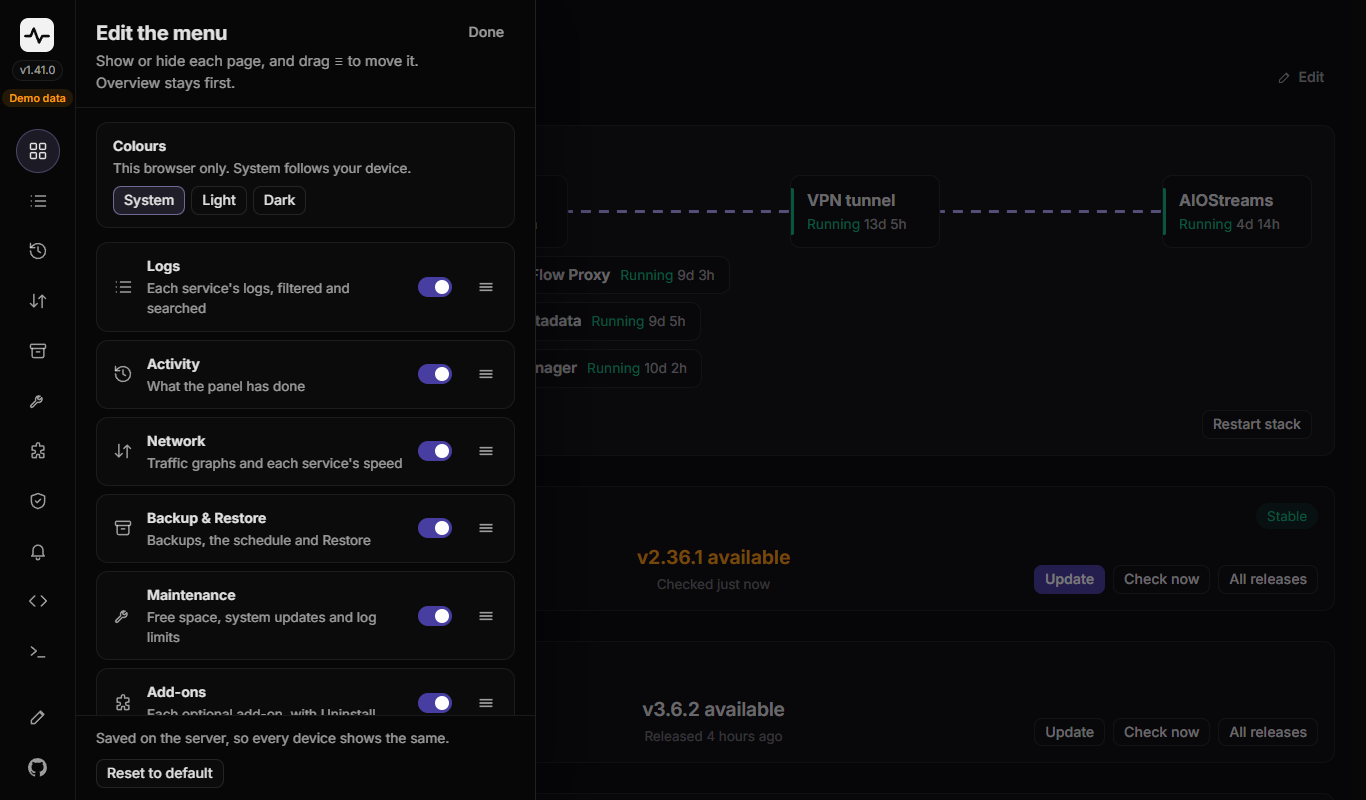
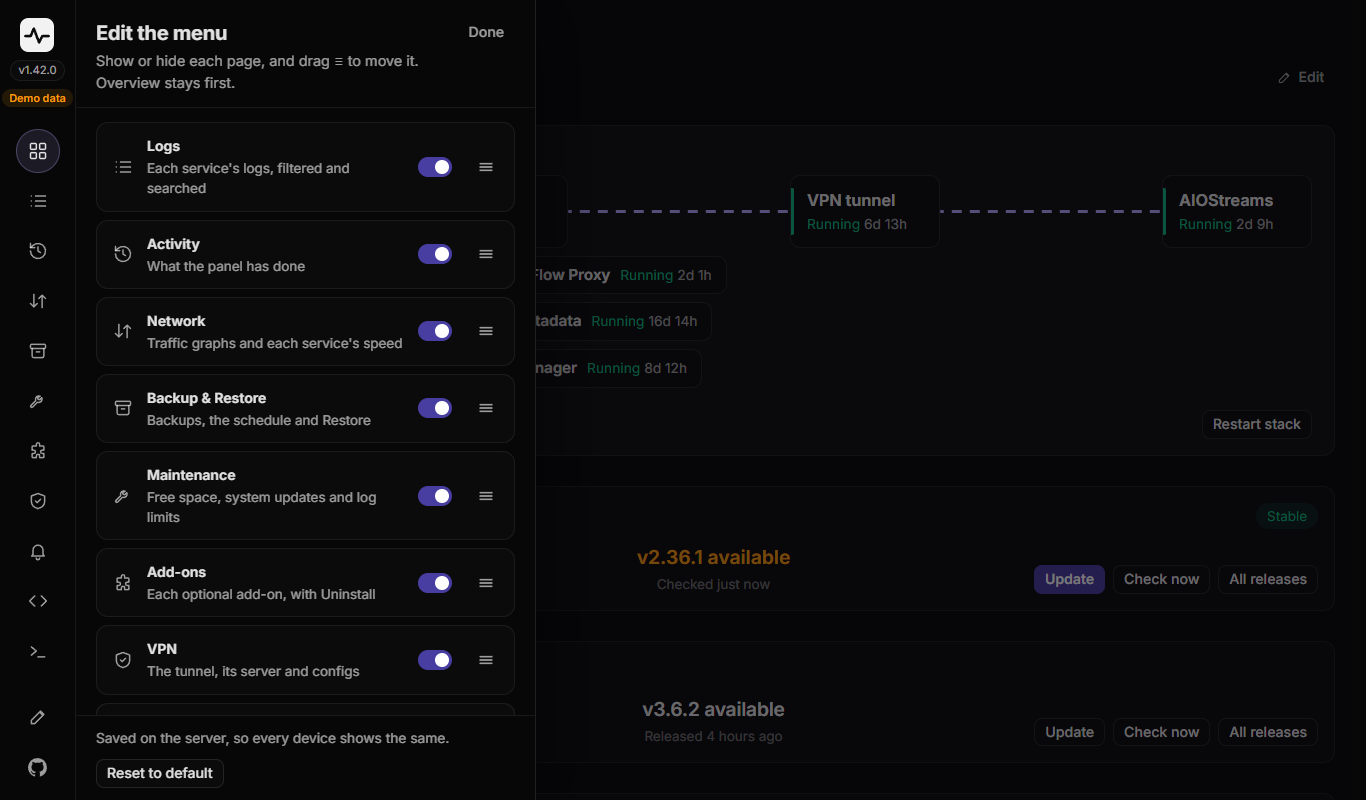
Control panel: Colours moves to the Overview's Edit drawer
Easier to find beside the headline than in Edit menu (Gav). Docs and the
Edit menu screenshot follow.

diff --git a/control-panel/web/css/app.css b/control-panel/web/css/app.css
@@ -41,7 +41,7 @@
   --mono: "JetBrains Mono", ui-monospace, "SF Mono", Menlo, monospace;
   --gutter: 16px;
 }
-/* Light follows the device unless the Edit menu picked Dark (data-theme, set by theme.js);
+/* Light follows the device unless the Overview's Edit picked Dark (data-theme, set by theme.js);
    the same values again below for a picked Light. Keep the two blocks in step (a test checks). */
 @media (prefers-color-scheme: light) {
   :root:not([data-theme="dark"]) {
@@ -1025,7 +1025,7 @@ html:has(> body.bare) { scrollbar-gutter: auto; }
 @media (min-width: 721px) { body:has(.lay-drawer.from-left:not([hidden])) .rail { z-index: 42; } }
 @media (max-width: 720px) { .lay-drawer.from-left { left: 0; } }
 .lay-drawer .drawer-foot { justify-content: space-between; flex-wrap: wrap; font-size: .86rem; }
-/* Edit menu's colours: System, Light or Dark, for this browser only */
+/* The Overview's Edit has Colours: System, Light or Dark, for this browser only */
 .lay-theme { display: flex; align-items: center; flex-wrap: wrap; gap: 8px 14px; margin: 14px 20px 0; padding: 12px 16px;
   border: 1px solid var(--line-soft); border-radius: 12px; background: var(--raised); }
 .lay-theme .lay-text { margin-right: auto; }

diff --git a/control-panel/web/js/theme.js b/control-panel/web/js/theme.js
@@ -1,4 +1,4 @@
-// The colours picked on the Edit menu (this browser only), set before the page paints so it
+// The colours picked in the Overview's Edit (this browser only), set before the page paints so it
 // doesn't flash the other scheme first. A plain script, loaded ahead of the stylesheet.
 try {
   const t = localStorage.getItem("aios.theme");

diff --git a/control-panel/web/js/layout.js b/control-panel/web/js/layout.js
@@ -115,7 +115,7 @@ function setTheme(t) {
 function themeRow() {
   const box = $("#lay-theme");
   clear(box);
-  box.hidden = mode !== MODES.rail;
+  box.hidden = mode !== MODES.overview;
   if (box.hidden) return;
   const now = themeNow();
   box.append(

diff --git a/docs/advanced/control-panel.md b/docs/advanced/control-panel.md
@@ -94,7 +94,7 @@ Each line is split the way AIOStreams' own log viewer shows it: time, a dot for 
 
 **Edit** beside the Overview's headline and **Edit menu** at the rail's foot open the same drawer, on the right for the Overview's cards and on the left for the rail's pages. Each list is one layout for the install, saved on the server (`ui-state/overview-layout.json` and `rail-layout.json`), so a phone and a desktop match. Overview always stays first on the rail, and Edit menu, GitHub and Sign out stay at its foot. A card or page that isn't on this server (the VPN before it's set up, Phone alerts before the watchdog, an add-on not installed) keeps its place in the saved order but isn't listed, so nothing reads as missing; it shows up where it was once it's set up. **Reset to default** puts back the standard order. The rail's goes by use: Logs, Activity, Network, Backup & Restore, Maintenance, Add-ons, then each add-on's own page under it (VPN, Phone alerts), Scripts and Terminal.
 
-**Colours**, at the top of Edit menu's drawer, sets System, Light or Dark. System follows the device's setting; Light or Dark overrides it in that browser only (saved in its local storage as `aios.theme`, not on the server), so a phone and a desktop can differ. A small script, `js/theme.js`, applies it before the page draws, so there's no flash of the other colours. The login page and the terminal follow it too.
+**Colours**, at the top of the Overview's Edit drawer, sets System, Light or Dark. System follows the device's setting; Light or Dark overrides it in that browser only (saved in its local storage as `aios.theme`, not on the server), so a phone and a desktop can differ. A small script, `js/theme.js`, applies it before the page draws, so there's no flash of the other colours. The login page and the terminal follow it too.
 
 ## Network page
 

diff --git a/docs/basic/control-panel.md b/docs/basic/control-panel.md
@@ -55,7 +55,7 @@ The pages are icons down the left; point at one to see its name. On a phone they
 
 - The buttons do the same as the matching options in the setup scripts, so you can mix the panel and SSH freely.
 - Cards and pages for add-ons (AIOMetadata, AIOManager, MediaFlow, the VPN, Phone alerts...) only appear once you've set them up with their scripts.
-- **Edit** on the Overview and **Edit menu** (the pencil) rearrange or hide cards and pages. The layout is saved on the server, so every device shows the same. Edit menu also has **Colours**: System (follows your device), Light or Dark, saved in that browser only.
+- **Edit** on the Overview and **Edit menu** (the pencil) rearrange or hide cards and pages. The layout is saved on the server, so every device shows the same. The Overview's **Edit** also has **Colours**: System (follows your device), Light or Dark, saved in that browser only.
 - **Activity** keeps what every button printed, if you want to check how an update or backup went.
 
 ## Worth knowing
